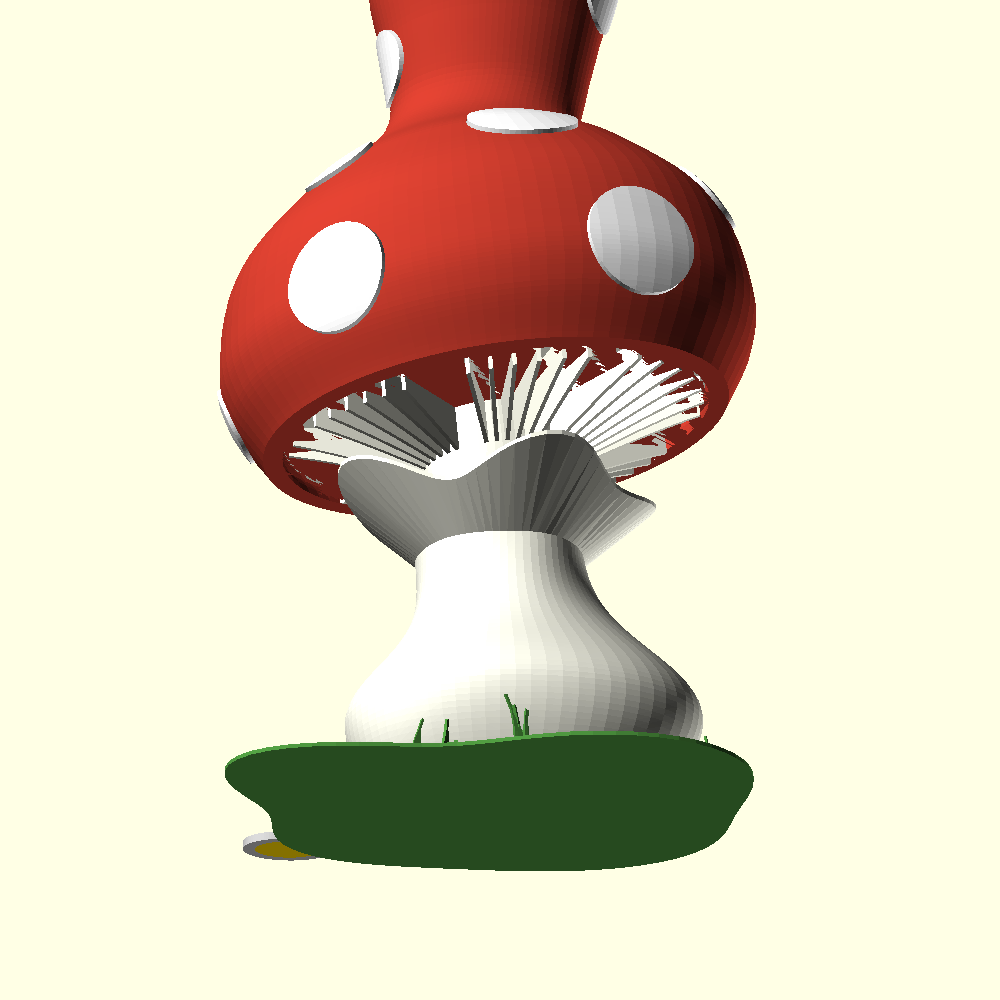
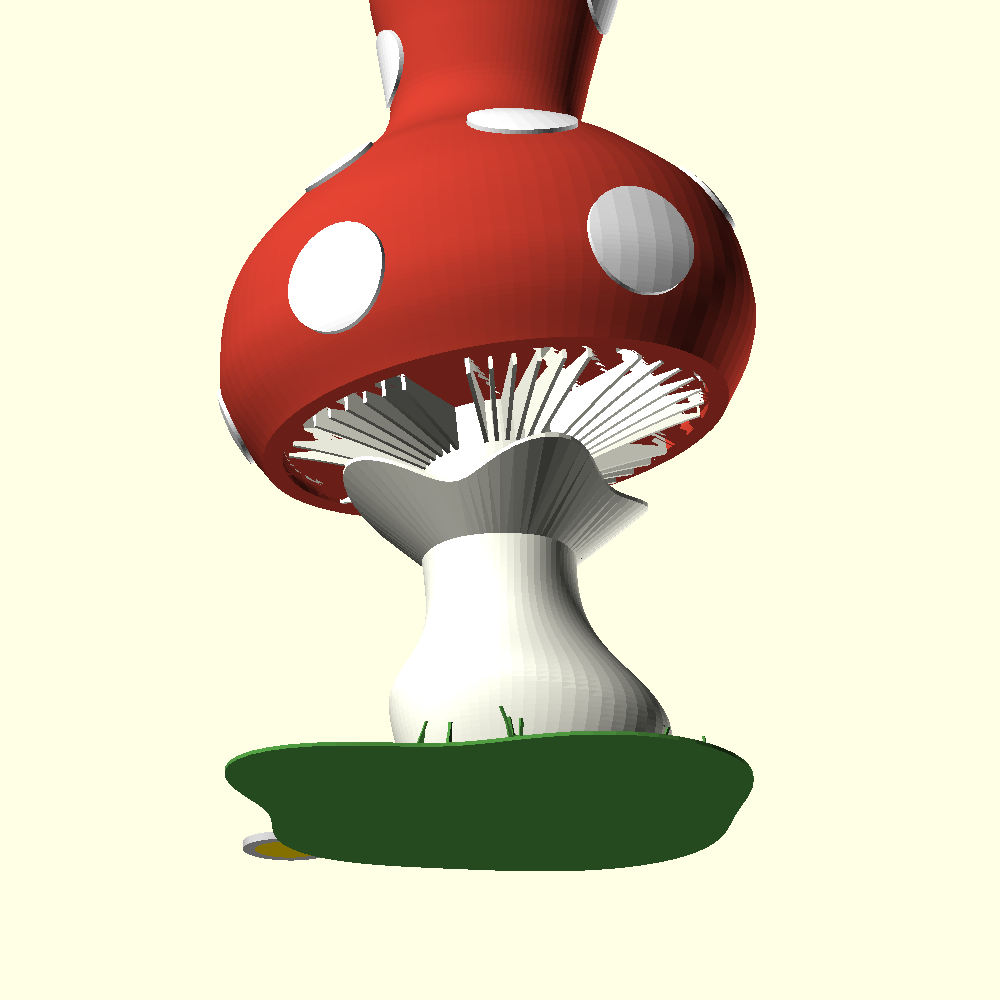
hw: slimmer mushroom stem with a lopsided bulb

diff --git a/openscad/README.md b/openscad/README.md
@@ -120,9 +120,9 @@ Parts:
   - **perforated deck** (`deck`) on supports, with a 17.2 × 4.5 mm window for the female header;
   - **cut-down v2.2 board** (60 × 39 mm, along the silkscreen dotted lines x = 147 / y = 87, without the 18650 and CR2032 holders): turned 180° (J1 on −X), 2 M2.5 screws (MH5, top MH1), the bottom edge rests on a ledge. The cell arrives on **J13 "RAW IN"** (`+BATT`/`GND`);
   - slide for the TP4056 **charge module**, upright on the side, **micro-USB facing down** between two gills.
-- **Stem** (`stem`) as a **fly-agaric pear** after a sketch: bulbous base (~106 × 96 mm at the belly, Ø70 to Ø85 on the table), neck Ø44 to 50 at the ring, Ø45 under the sleeve, hollow (Ø29.4) to the top: takes the cell cradle, inserted from the top, sitting 72 mm above the ground. Underneath, a closed **ballast chamber** following the stem shape (2.4 mm wall, `ballast_wall`, bulb included), conical ceiling at 45° up to 70 mm (`ballast_h`): ~220 cm³, i.e. ~1 kg of 1 mm steel shot if filled. Filled through a Ø15 hole in the bottom, closed by a **plug** (`plug`, Ø21 × 1.2 mm) glued into a counterbore, flush with the underside. Same spirit as the cap:
+- **Stem** (`stem`) as a **fly-agaric pear** after a sketch: slender, lopsided bulbous base (~76 × 72 mm at the belly; on the table 22 mm from the axis on the short side, 39 mm on the long side), neck Ø41 to 45 at the ring, Ø45 under the sleeve, hollow (Ø29.4) to the top: takes the cell cradle, inserted from the top, sitting 72 mm above the ground. Underneath, a closed **ballast chamber** following the stem shape (2.4 mm wall, `ballast_wall`, bulb included), conical ceiling at 45° up to 70 mm (`ballast_h`): ~146 cm³, i.e. ~690 g of 1 mm steel shot if filled. Filled through a Ø15 hole in the bottom, closed by a **plug** (`plug`, Ø21 × 1.2 mm) glued into a counterbore, flush with the underside. Same spirit as the cap:
   - lobed shaft (`stem_amp`, lobes twisting along the shaft, `stem_twist`); the deformation only adds material, the wall around the cell never gets thinner, and it fades out under the sleeve;
-  - asymmetric bulbous base (`bulb_r`, `bulb_z`, `bulb_up`, `bulb_dn`, `foot_dir`): stronger shoulder on one side, underside rounded at 44° at most;
+  - asymmetric bulbous base (`bulb_r`, `bulb_z`, `bulb_up`, `bulb_dn`, `foot_dir`): belly low and wide on the long side, high and tight on the short side (`bulb_z` per side), underside rounded at 44° at most;
   - **cup** ring under the cap (`ring_z`, `ring_ext`, `ring_rise`), raised wavy edge (`ring_amp`), 45° at most: no support. The waves are phased (`ring_rot`) so that the cup dips under the USB socket: its edge stays 2 mm short of the window under the plug (checked by an `assert`), the cable plugs in from below.
   - At the top, a tenon tilted 6° (`cap_tilt`) fits into the sleeve, 1 radial M3 screw on the +X side, under the USB socket (`collar_screw_a`).
 - **Cradle** (`cradle`) 74.8 × Ø27.8 mm: removable trough for a **bare 18650** (65 mm, flat top; `cell_l` for another length), no solder on the cell. Two **tab contacts** (13 × 11 mm plate, drilled 3 × 7 tab) slid into grooves: spring on the "−" side at the bottom, bump on the "+" side at the top (polarity engraved on the ends). Tabs up: each wire soldered on them leaves through the nearby notch (`wire_notch`) and runs along the cell in the top slot up to the sleeve (W1 red 40 mm, W2 black 110 mm, soldered → JST-XH F, see *Wiring*); the wires are soldered to the tabs, not to the cell. The cell goes in through the top slot, compressing the spring (≈ 4 mm, `spring_c`). Ø2.5 pull hole at the top (string, knot inside). Flanks lightened by 3 windows on each side, under the lips that hold the cell (`cr_win`, 15.5 g instead of 21 g solid). Printed flat, flat face on the bed, no support. ![Cradle: fitted and bare](rendu_champignon_berceau.png)
@@ -197,7 +197,7 @@ Routing:
 - Cradle (1st print): barely fitted into the stem and the "−" wire did not pass (notch cut with pliers). Fixed for the next print: `cr_fit` clearance 0.8, deeper contact grooves (`bt_sink`), tabs up, wire notch at each end (`wire_notch`).
 - Dimensions to measure: contacts (sheet thickness `bt_t`, compressed spring `spring_c`), position of the charge module socket (`usb_cut`), BME breakout (`bme_w/d`, `bme_edge`, female header height `fh_h`).
 - No air gap between the dome and the board: the sensor is under the deck, ventilated from below; solar heating to check by measurement.
-- Stability: set by the ballast, to check once printed. Estimate (solid PETG shell, support radius ~38 mm): tips over at ~15° without ballast, ~21° with 350 g, ~28° with the chamber full (~1 kg, ~1.7 kg in total, centre of gravity at ~69 mm). Partial filling is enough: freeze it with glue, stem upright.
+- Stability: set by the ballast and the glued ground, to check once printed. The 2026-11 estimate (~15° empty, ~28° full) was for the fatter stem (support radius ~38 mm, ~1 kg of ballast); the slender stem stands 22 mm from the axis on its short side (+X) and holds ~690 g, so it tips over sooner on that side without the ground. Partial filling is enough: freeze it with glue, stem upright.
 
 ## Screws and fixings
 
